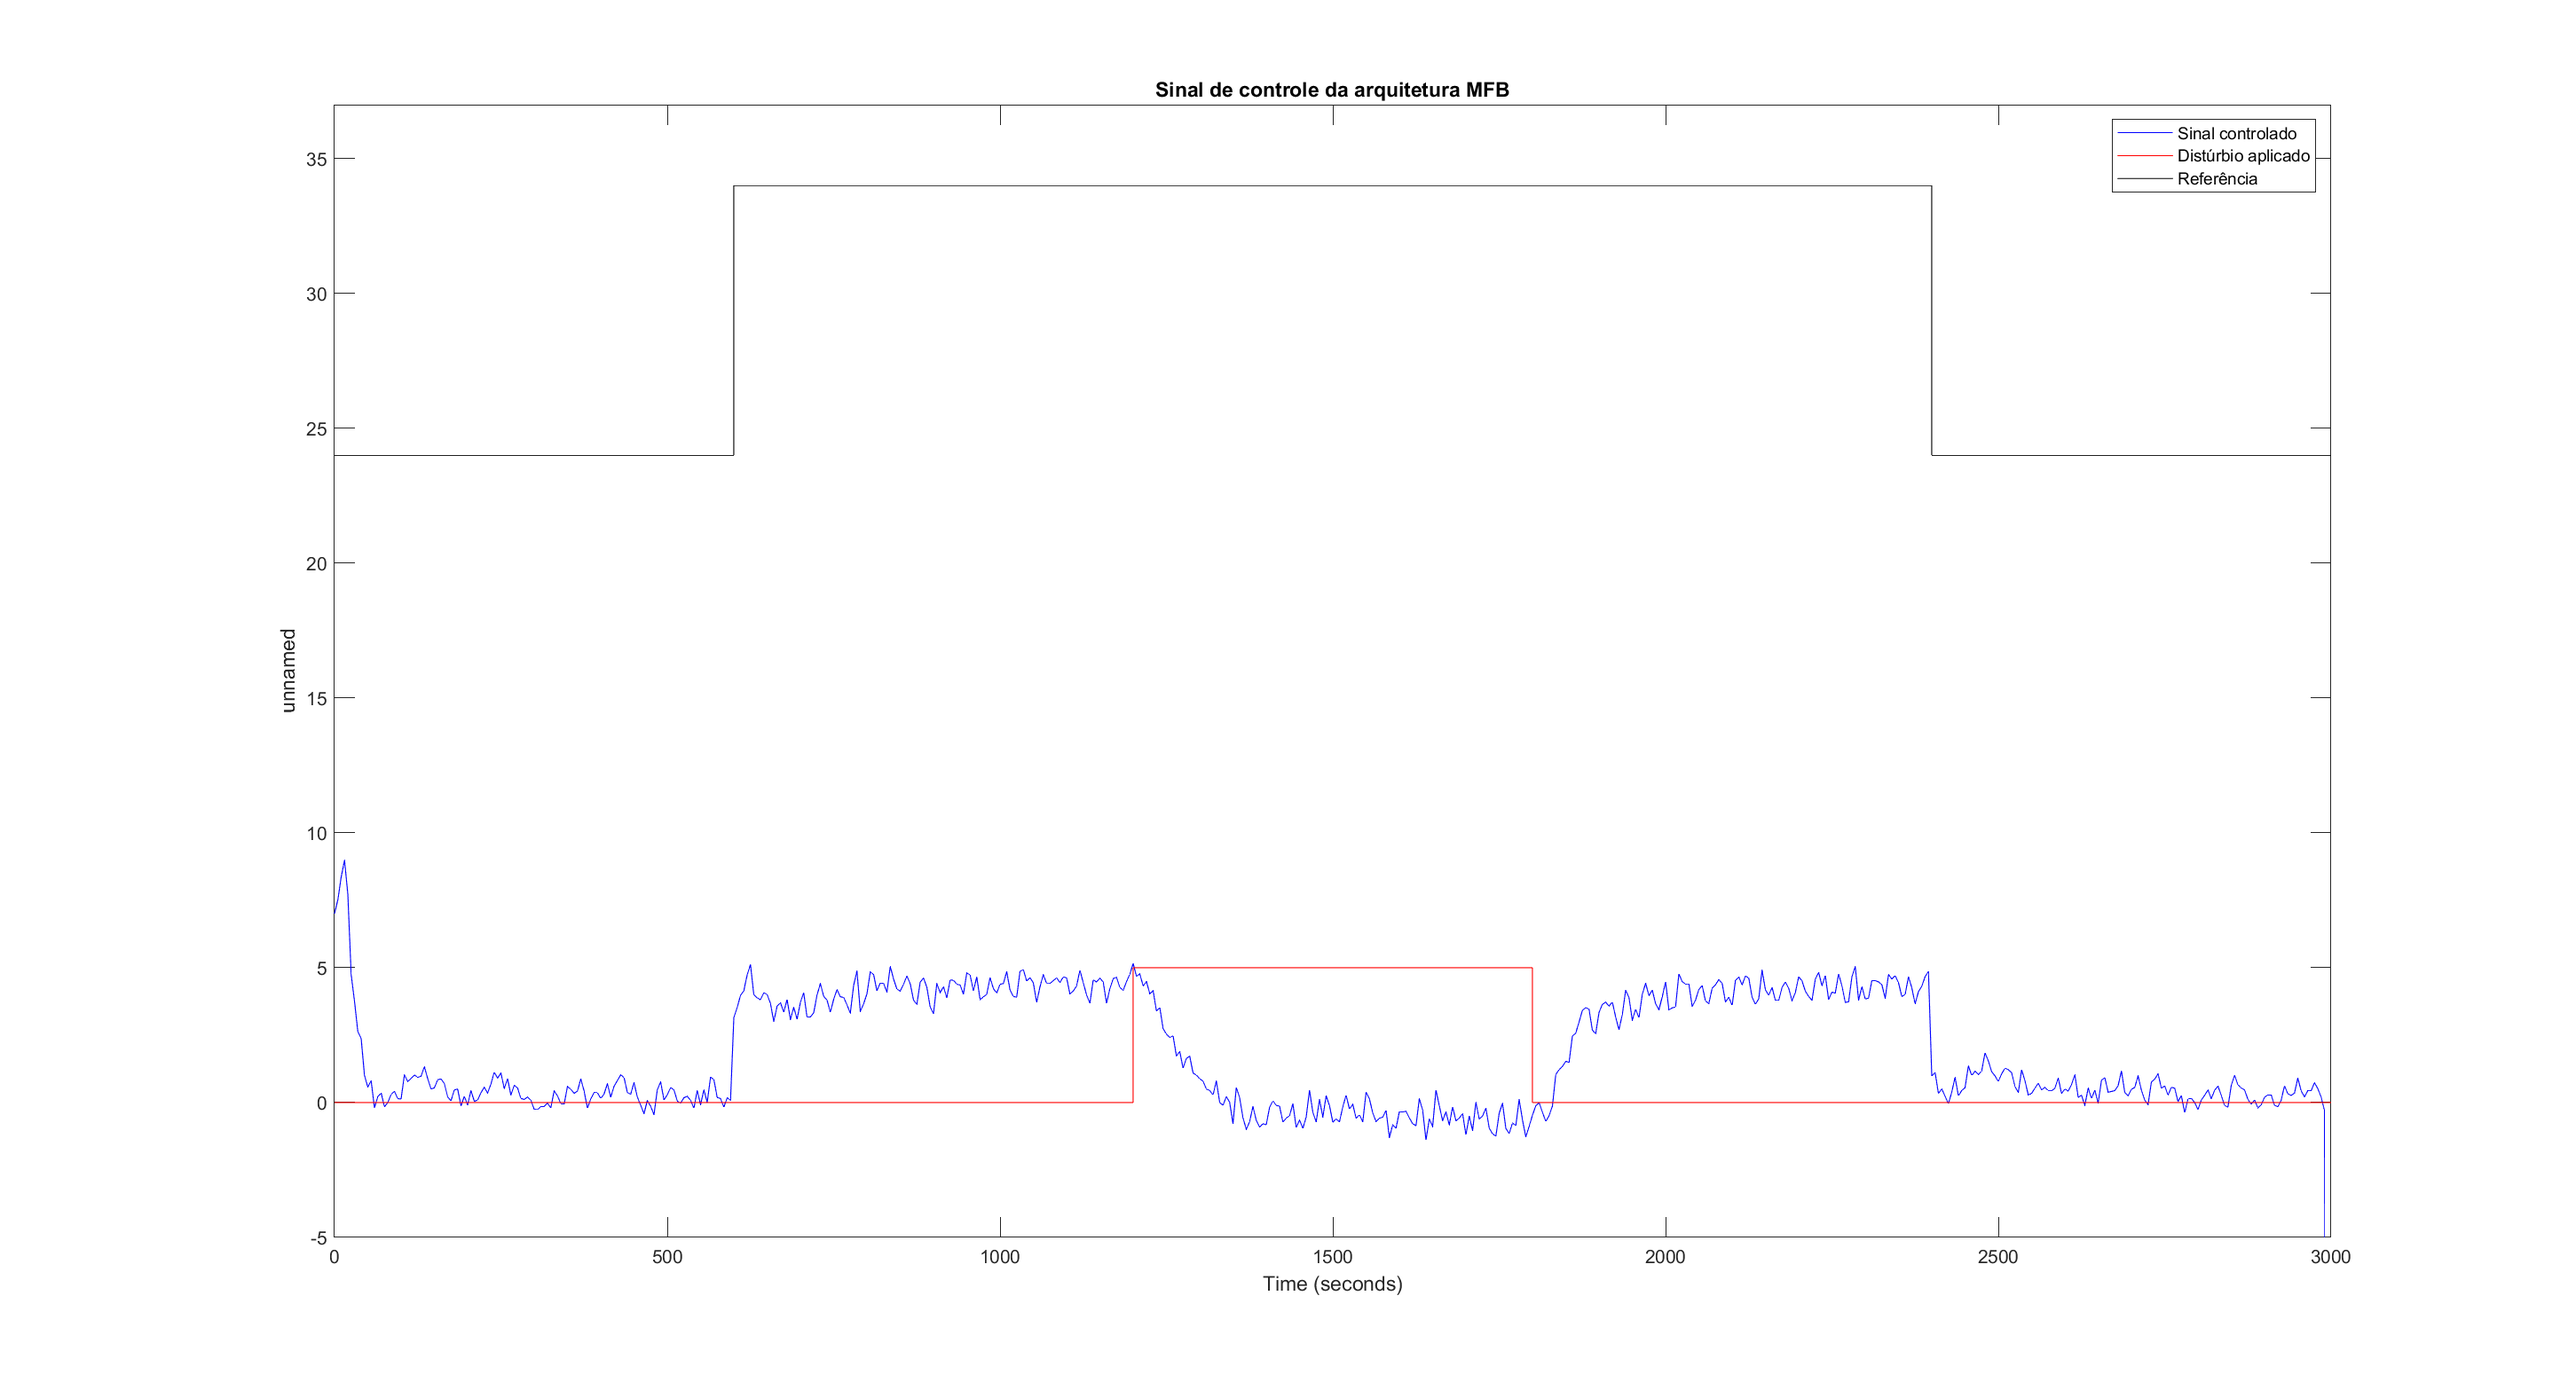
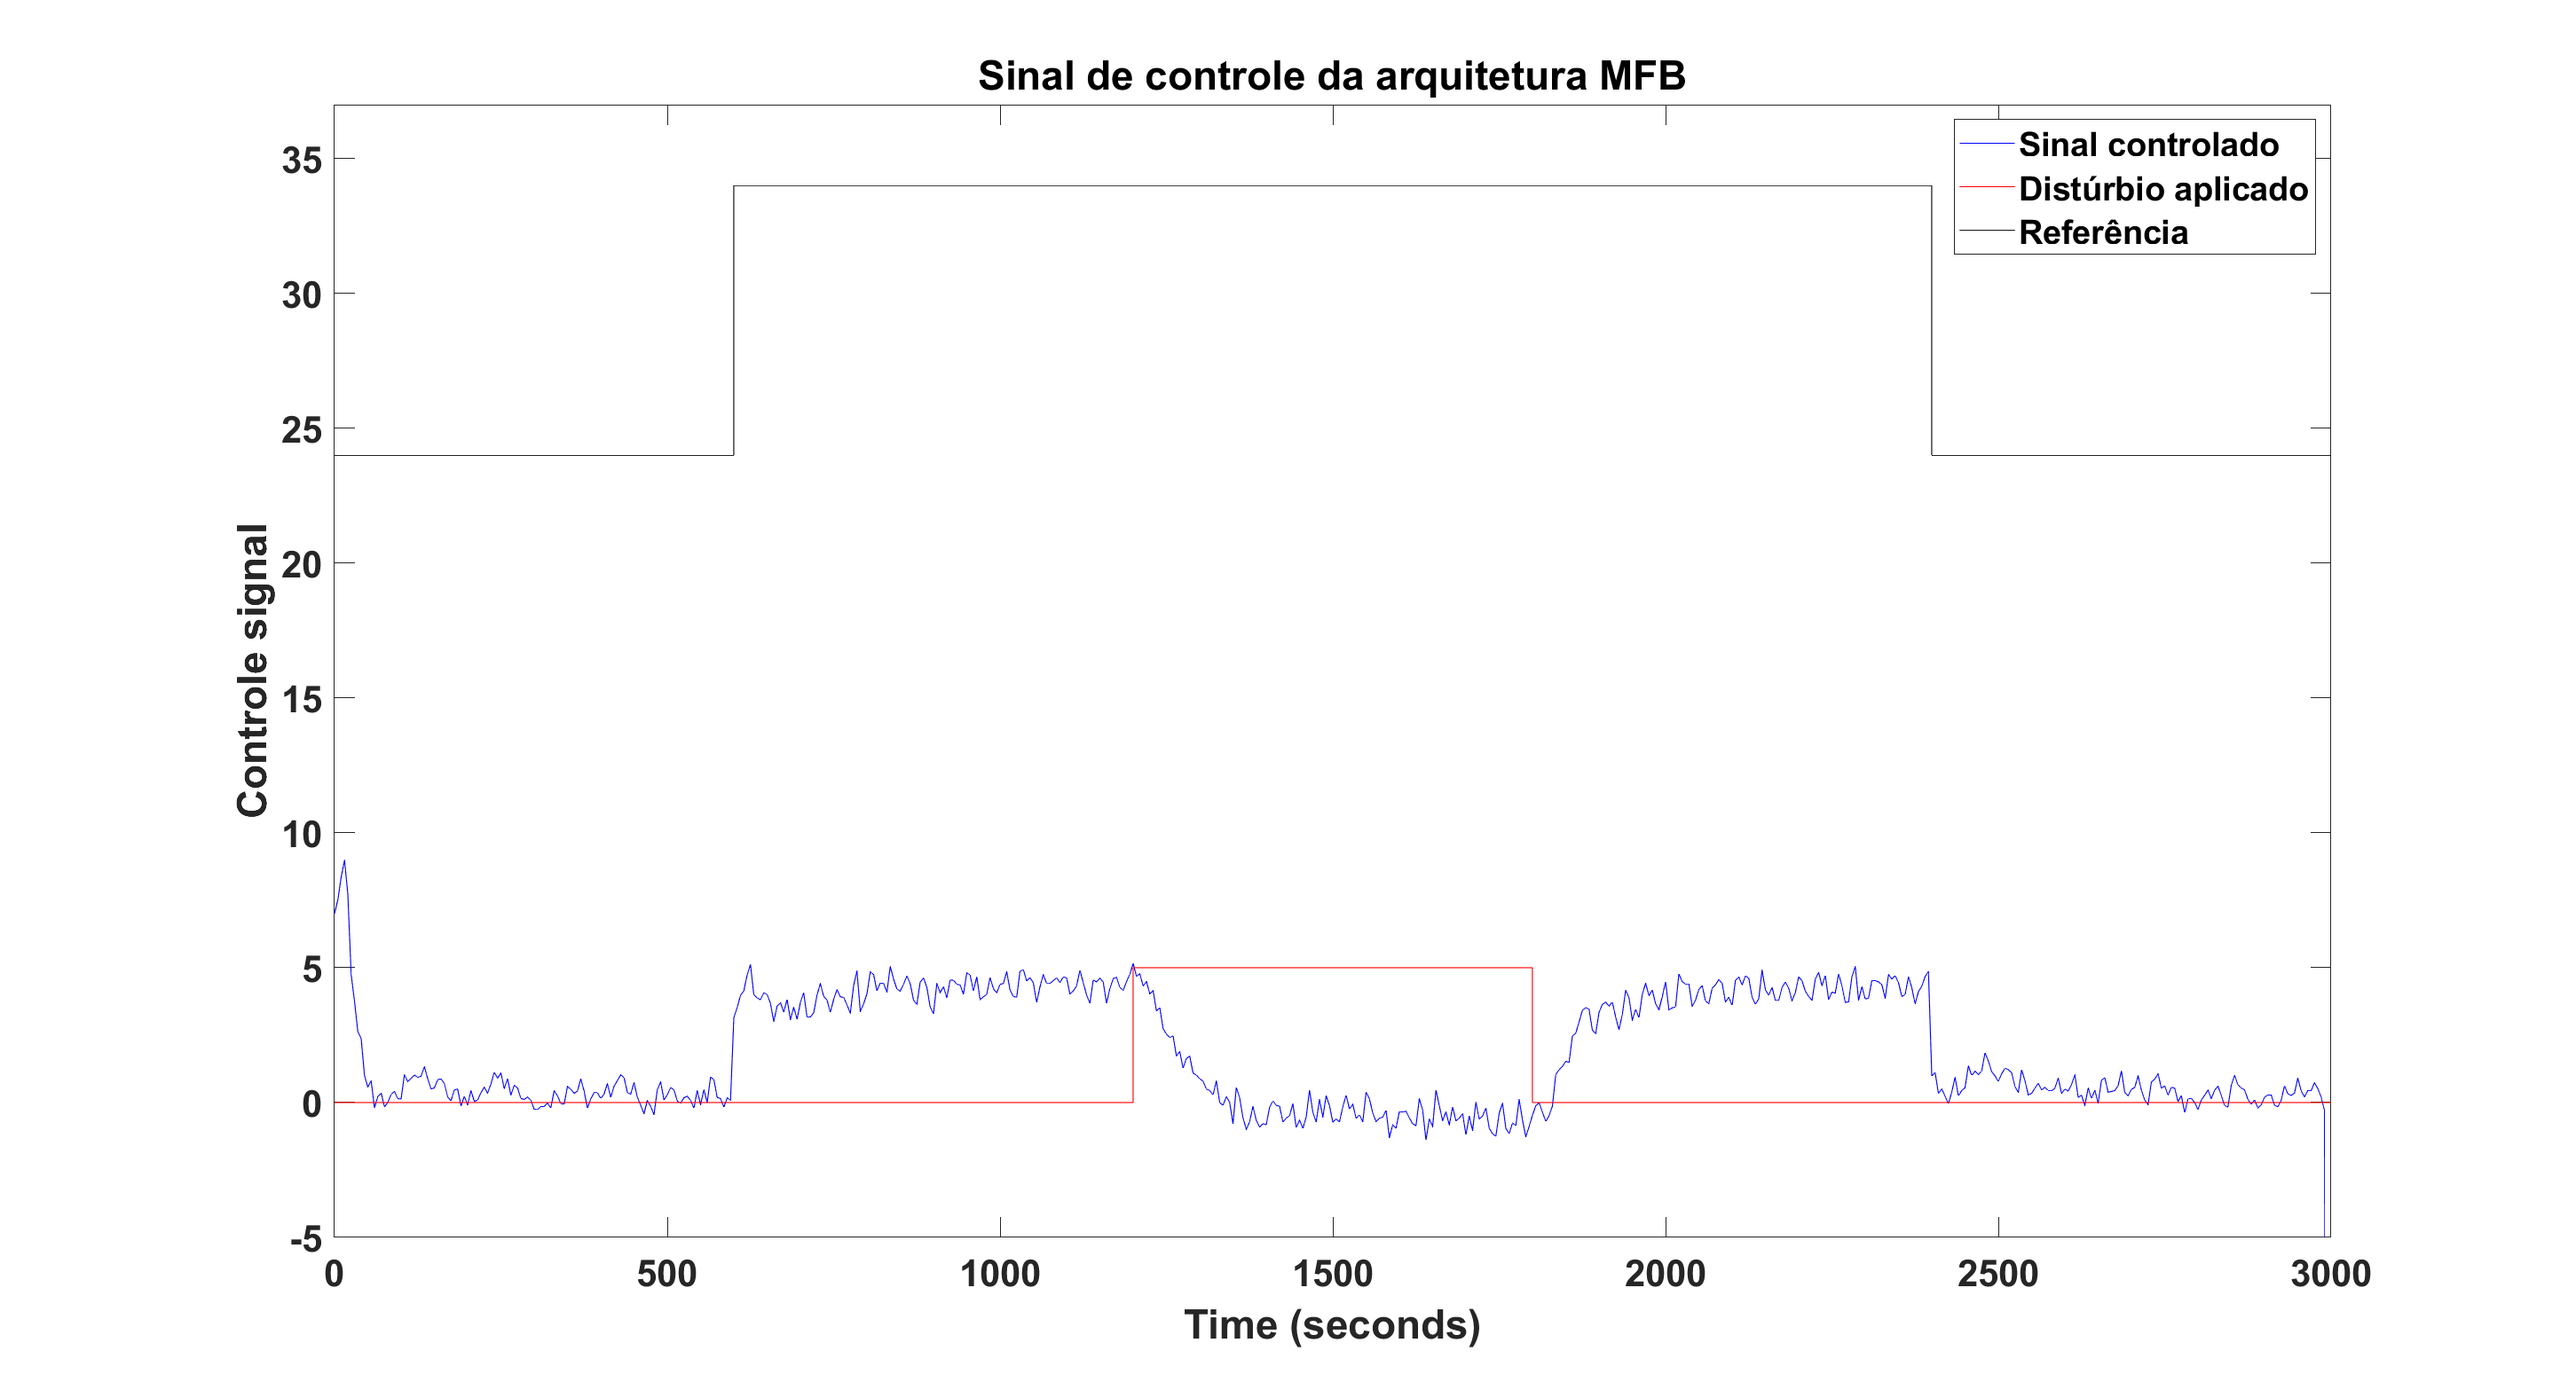
Updates

diff --git a/Estudos Observador/plotArq.m b/Estudos Observador/plotArq.m
@@ -4,11 +4,11 @@ close all
 %'Melhorias Qs 4\
 path = 'Final\'
 %%
-%{
+
 load('MA.mat')
+fig = figure
 
 legenCell = cell(1,3);
-
 plot(sinalSaida+24, 'g')
 legendCell{1} = 'Nível da água (%)';
 hold on
@@ -20,7 +20,33 @@ legend(legendCell);
 title('Resposta da malha aberta')
 set(gca, 'fontsize', 20, 'fontweight', 'bold');
 axis([0 2100 -5 55]);
+ylabel('Output signal') 
 hold off
+fig.WindowState = 'maximized';
+saveas(fig,['Imagens\MAoutput.png'])
+
+%}
+%%
+
+load('arq2_compara.mat')
+fig = figure
+
+legenCell = cell(1,3);
+plot(sinalSaida+24, 'g')
+legendCell{1} = 'Nível da água (%)';
+hold on
+plot(Saida_Simulado+24, 'm')
+legendCell{2} = 'Resposta simulação';
+plot(sinalRef+24, 'b')
+legendCell{3} = 'Referência';
+legend(legendCell);
+title('Resposta da malha aberta')
+set(gca, 'fontsize', 20, 'fontweight', 'bold');
+axis([0 inf -5 45]);
+ylabel('Output signal') 
+hold off
+fig.WindowState = 'maximized';
+saveas(fig,['Imagens\TD_erro.png'])
 
 %}
 %%
@@ -43,6 +69,7 @@ legend(legendCell);
 title('Resposta da arquitetura MFB')
 set(gca, 'fontsize', 20, 'fontweight', 'bold');
 axis([0 inf -5 45]);
+ylabel('Output signal') 
 hold off
 fig.WindowState = 'maximized';
 saveas(fig,['Imagens\Arq1_output_PO.png'])
@@ -61,6 +88,7 @@ legend(legendCell);
 title('Sinal de controle da arquitetura MFB')
 set(gca, 'fontsize', 20, 'fontweight', 'bold');
 axis([0 inf -5 37]);
+ylabel('Controle signal') 
 hold off
 fig.WindowState = 'maximized';
 saveas(fig,['Imagens\Arq1_cont_PO.png'])
@@ -84,6 +112,7 @@ legend(legendCell);
 title('Resposta da arquitetura MFE')
 set(gca, 'fontsize', 20, 'fontweight', 'bold');
 axis([0 inf -5 45]);
+ylabel('Output signal') 
 hold off
 fig.WindowState = 'maximized';
 saveas(fig,['Imagens\Arq3_output_PO.png'])
@@ -102,6 +131,7 @@ legend(legendCell);
 title('Sinal de controle da arquitetura MFE')
 set(gca, 'fontsize', 20, 'fontweight', 'bold');
 axis([0 inf -5 37]);
+ylabel('Controle signal') 
 hold off
 fig.WindowState = 'maximized';
 saveas(fig,['Imagens\Arq3_cont_PO.png'])
@@ -125,6 +155,7 @@ legend(legendCell);
 title('Resposta da arquitetura MFB')
 set(gca, 'fontsize', 20, 'fontweight', 'bold');
 axis([0 inf -5 45]);
+ylabel('Output signal') 
 hold off
 fig.WindowState = 'maximized';
 saveas(fig,['Imagens\Arq1_output.png'])
@@ -143,6 +174,7 @@ legend(legendCell);
 title('Sinal de controle da arquitetura MFB')
 set(gca, 'fontsize', 20, 'fontweight', 'bold');
 axis([0 inf -5 37]);
+ylabel('Controle signal') 
 hold off
 fig.WindowState = 'maximized';
 saveas(fig,['Imagens\Arq1_cont.png'])
@@ -166,6 +198,7 @@ legend(legendCell);
 title('Resposta da arquitetura MFE')
 set(gca, 'fontsize', 20, 'fontweight', 'bold');
 axis([0 inf -5 45]);
+ylabel('Output signal') 
 hold off
 fig.WindowState = 'maximized';
 saveas(fig,['Imagens\Arq3_output.png'])
@@ -184,6 +217,7 @@ legend(legendCell);
 title('Sinal de controle da arquitetura MFE')
 set(gca, 'fontsize', 20, 'fontweight', 'bold');
 axis([0 inf -5 37]);
+ylabel('Controle signal') 
 hold off
 fig.WindowState = 'maximized';
 saveas(fig,['Imagens\Arq3_cont.png'])

diff --git a/Estudos Observador/LoadToWorkplace.m b/Estudos Observador/LoadToWorkplace.m
@@ -9,7 +9,7 @@ p_vector = [30, 35, 40, 45, 50, 55, 60, 65, 70, 75, 80, 85, 90, 95, 100, 110, 12
 
 [r,columns] = size(p_vector);
 
-enablePlot = false;
+enablePlot = true;
 
 saidas_2 = [];
 saidas_sim_2 = [];
